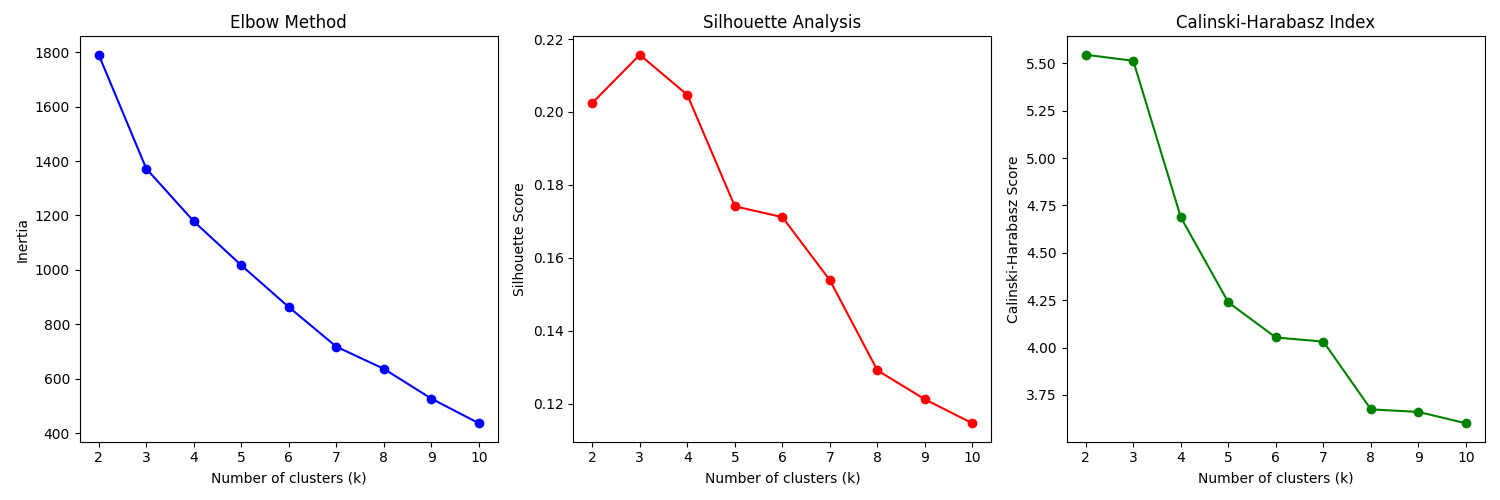
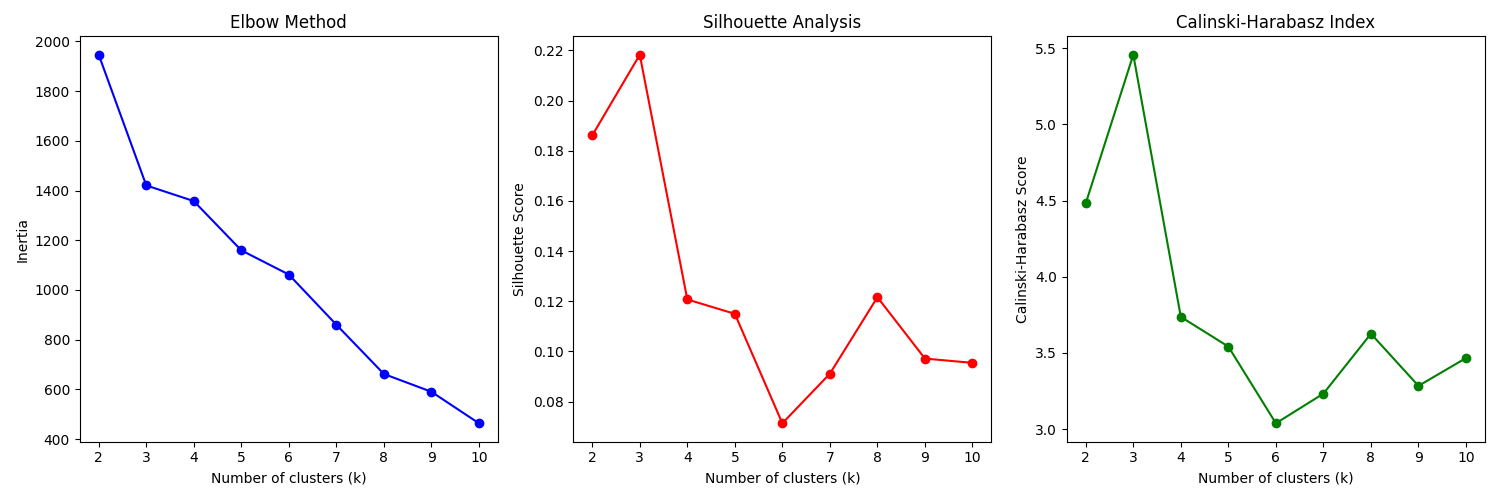
finalized kmeans test and eval, cleaned out dorys code, and currently generating bios

diff --git a/utils/ProfileGenerator/BioGenerator.py b/utils/ProfileGenerator/BioGenerator.py
@@ -5,8 +5,8 @@ import JSON_manipulation as Jm
 import pandas as pd
 import time
 import os
-
 import google.generativeai as genai
+
 #Api Holder
 from dotenv import load_dotenv
 
@@ -15,13 +15,12 @@ import pandas.errors
 LIM_DAY_API = 1300
 LIM_MIN_API = 15
 
-hobbies_JSON = 'tests/ProfileGenerator/json_prompts/hobbies.json'
-phys_traits_JSON = 'tests/ProfileGenerator/json_prompts/phys_traits.json'
-pers_traits_JSON = 'tests/ProfileGenerator/json_prompts/pers_traits.json'
+hobbies_JSON = 'utils/ProfileGenerator/json_prompts/hobbies.json'
+phys_traits_JSON = 'utils/ProfileGenerator/json_prompts/phys_traits.json'
+pers_traits_JSON = 'utils/ProfileGenerator/json_prompts/pers_traits.json'
 
 dict_data = {
     "gender": [],
-    "Attracted to": [],
     "major": [],
     "hobbies": [],
     "Attractive phys traits": [],
@@ -44,7 +43,7 @@ majors = [
 ]
 
 
-with open("tests/ProfileGenerator/json_prompts/prompts.json") as file:
+with open("utils/ProfileGenerator/json_prompts/prompts.json") as file:
 
     #Getting each prompt as an f string
     data = json.load(file)
@@ -76,19 +75,14 @@ def hobby_generator(major):
 
             # less than 4 gets specific hobby, greater than 4 generates general hobby
             x = randint(0, 10)
-
             if x <= 4:
                 hobby = data[major][randint(0, len(data[major]) - 1)]
-
             else:
                 hobby = data['General'][randint(0, len(data['General']) - 1)]
 
             user_hobbies.append(hobby)
             i += 1
-
-
     hobby_prompt = ", ".join(user_hobbies)
-
     dict_data['hobbies'].append(hobby_prompt)
 
     return hobby_prompt
@@ -97,13 +91,13 @@ def hobby_generator(major):
 def gender_generator():
     genders = ["female", "male"]
     probabilities = [0.49, 0.48]
-
     selected_gender = random.choices(genders, probabilities, k=1)
-
     dict_data['gender'].append(selected_gender[0])
 
     return selected_gender[0]
 
+
+'''
 def gender_of_interest(self_gender):
     sexualities = ["heterosexual", "homosexual"]
     probabilities = [0.9, 0.04]
@@ -125,47 +119,46 @@ def gender_of_interest(self_gender):
     dict_data['Attracted to'].append(GOI)
 
     return GOI
+'''
 
-
-def phys_trait_generator(gender_interest):
+def phys_trait_generator(self_gender):
     trait_num = randint(1, 3)
-    traits_of_interest = []
+    self_traits = []
     i = 1
     while i <= trait_num:
         with open(phys_traits_JSON) as file:
             data = json.load(file)
-            trait = data[gender_interest][randint(0, len(data[gender_interest]) - 1)]
-            traits_of_interest.append(trait)
+            trait = data[self_gender][randint(0, len(data[self_gender]) - 1)]
+            self_traits.append(trait)
         i+=1
 
-    str_phys_traits = ', '.join(traits_of_interest)
+    str_phys_traits = ', '.join(self_traits)
     dict_data['Attractive phys traits'].append(str_phys_traits)
     return str_phys_traits
 
 
-def pers_trait_generator(gender_interest):
+def pers_trait_generator(self_gender):
     trait_num = randint(1, 3)
-    traits_of_interest = []
+    self_traits = []
     i = 1
     while i <= trait_num:
         with open(pers_traits_JSON) as file:
             data = json.load(file)
-            trait = data[gender_interest][randint(0, len(data[gender_interest]) - 1)]
-            traits_of_interest.append(trait)
+            trait = data[self_gender][randint(0, len(data[self_gender]) - 1)]
+            self_traits.append(trait)
         i+=1
 
-    str_pers_traits = ', '.join(traits_of_interest)
+    str_pers_traits = ', '.join(self_traits)
     dict_data['Attractive pers traits'].append(str_pers_traits)
     return str_pers_traits
 
-def generate_bio(major, gender, GOI, hobby_prompt, phys_trait, pers_trait):
+def generate_bio(major, gender, hobby_prompt, phys_trait, pers_trait):
 
     #Formatting the instructions for the text generator
     instructions = f'{instruction_prompts[randint(0,prompts_count - 1)]}'
     formatted_instructions = instructions.format(gender=gender,
                                                  major=major,
                                                  hobby_prompt=hobby_prompt,
-                                                 GOI=GOI,
                                                  phys_trait=phys_trait,
                                                  pers_trait=pers_trait
                                                  )
@@ -182,7 +175,7 @@ def generate_bio(major, gender, GOI, hobby_prompt, phys_trait, pers_trait):
                                         safety_settings = {
                                             'HATE': 'BLOCK_NONE',
                                             'HARASSMENT': 'BLOCK_NONE',
-                                            'SEXUAL': 'BLOCK_NONE',
+                                            'SEXUAL': 'BLOCK_NONE', # ooookay dory
                                             'DANGEROUS': 'BLOCK_NONE'
                                         },
                                         generation_config=genai.types.GenerationConfig(
@@ -205,11 +198,11 @@ def main():
         major = major_generator(majors)
         hobbies = hobby_generator(major)
         gender = gender_generator()
-        GOI = gender_of_interest(gender)
-        phys_traits = phys_trait_generator(GOI)
-        pers_traits = pers_trait_generator(GOI)
+        #GOI = gender_of_interest(gender)
+        phys_traits = phys_trait_generator(gender)
+        pers_traits = pers_trait_generator(gender)
 
-        generate_bio(major, gender, GOI, hobbies, phys_traits, pers_traits)
+        generate_bio(major, gender, hobbies, phys_traits, pers_traits)
 
         #saving after every 10 iterations
         if Jm.load_count()%10 == 0 and Jm.load_count() != 0:

diff --git a/src/ml/clustering/evaluation.py b/src/ml/clustering/evaluation.py
@@ -26,7 +26,7 @@ def evaluate_kmeans(embeddings: np.ndarray, k_range: range = range(2, 11)) -> Di
     }
 
     for k in k_range:
-        kmeans = KMeans(n_clusters=k, random_state=42)
+        kmeans = KMeans(n_clusters=k, random_state=42, n_init='auto')
         labels = kmeans.fit_predict(embeddings)
 
         results['inertias'].append(kmeans.inertia_)
@@ -132,7 +132,7 @@ def main():
     # Analyze clusters
     train_stats = analyze_clusters(train_embeddings, train_labels)
     val_stats = analyze_clusters(val_embeddings, val_labels)
-
+    print("\n------------------------------------------------------------------")
     print("\nTraining Set Cluster Analysis:")
     for cluster_id, stats in train_stats.items():
         print(f"\n{cluster_id}:")
@@ -140,6 +140,7 @@ def main():
         print(f"Mean distance to center: {stats['mean_distance_to_center']:.3f}")
         print(f"Density: {stats['density']:.3f}")
 
+    print("\n------------------------------------------------------------------")
     print("\nValidation Set Cluster Analysis:")
     for cluster_id, stats in val_stats.items():
         print(f"\n{cluster_id}:")

diff --git a/tests/test_evalation.py b/tests/test_evalation.py
@@ -1,0 +1,18 @@
+from src.ml.clustering.evaluation import evaluate_kmeans, analyze_clusters
+import numpy as np
+from sklearn.cluster import KMeans
+
+def test_kmeans_evaluation():
+    # Create mock embeddings
+    mock_embeddings = np.random.randn(20, 384)
+
+    # Test evaluation
+    results = evaluate_kmeans(mock_embeddings, k_range=range(2, 5))
+    assert len(results['k_values']) == 3
+    assert all(s >= -1 and s <= 1 for s in results['silhouette_scores'])
+
+    # Test clustering
+    kmeans = KMeans(n_clusters=3, random_state=42, n_init='auto')
+    labels = kmeans.fit_predict(mock_embeddings)
+    stats = analyze_clusters(mock_embeddings, labels)
+    assert len(stats) == 3

diff --git a/utils/ProfileGenerator/JSON_manipulation.py b/utils/ProfileGenerator/JSON_manipulation.py
@@ -1,7 +1,8 @@
+import csv
 import json
 from datetime import datetime
 
-API_COUNT_FILE = "tests/ProfileGenerator/api_calls_count.json"
+API_COUNT_FILE = "utils/ProfileGenerator/api_calls_count.json"
 
 def load_count():
     try:
